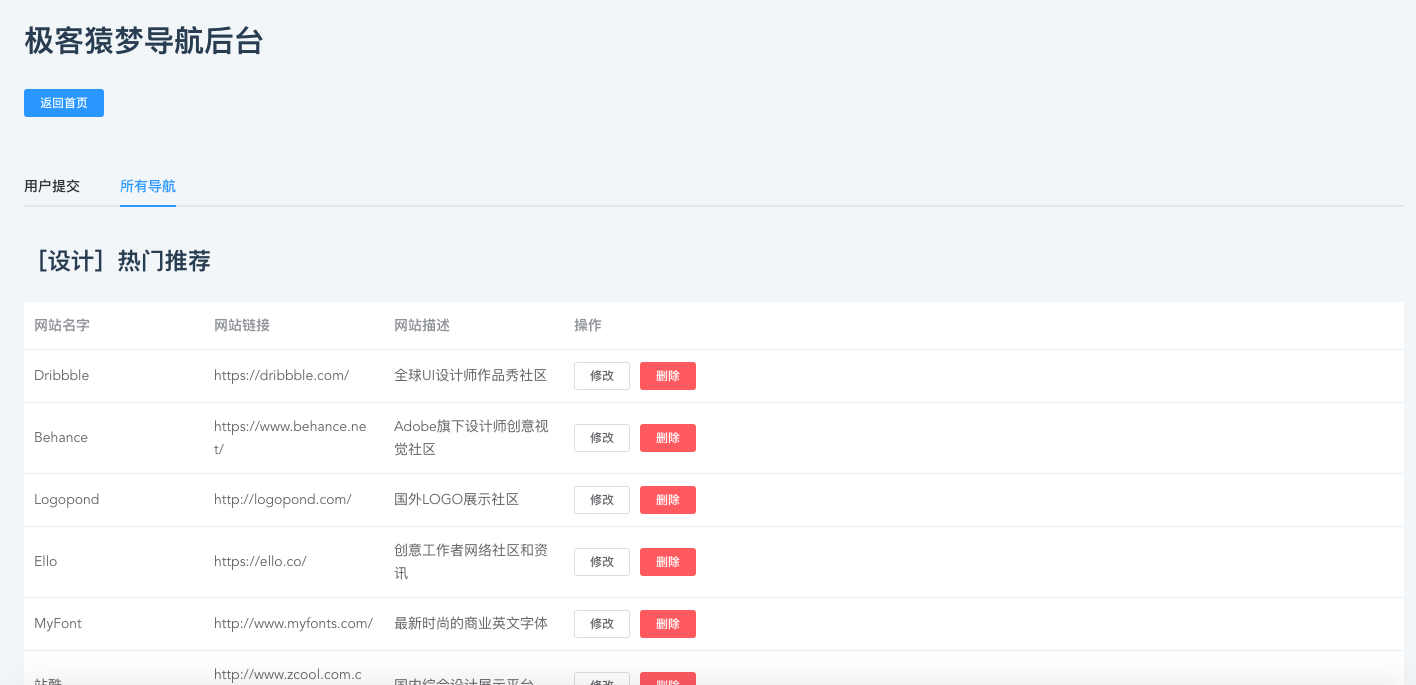
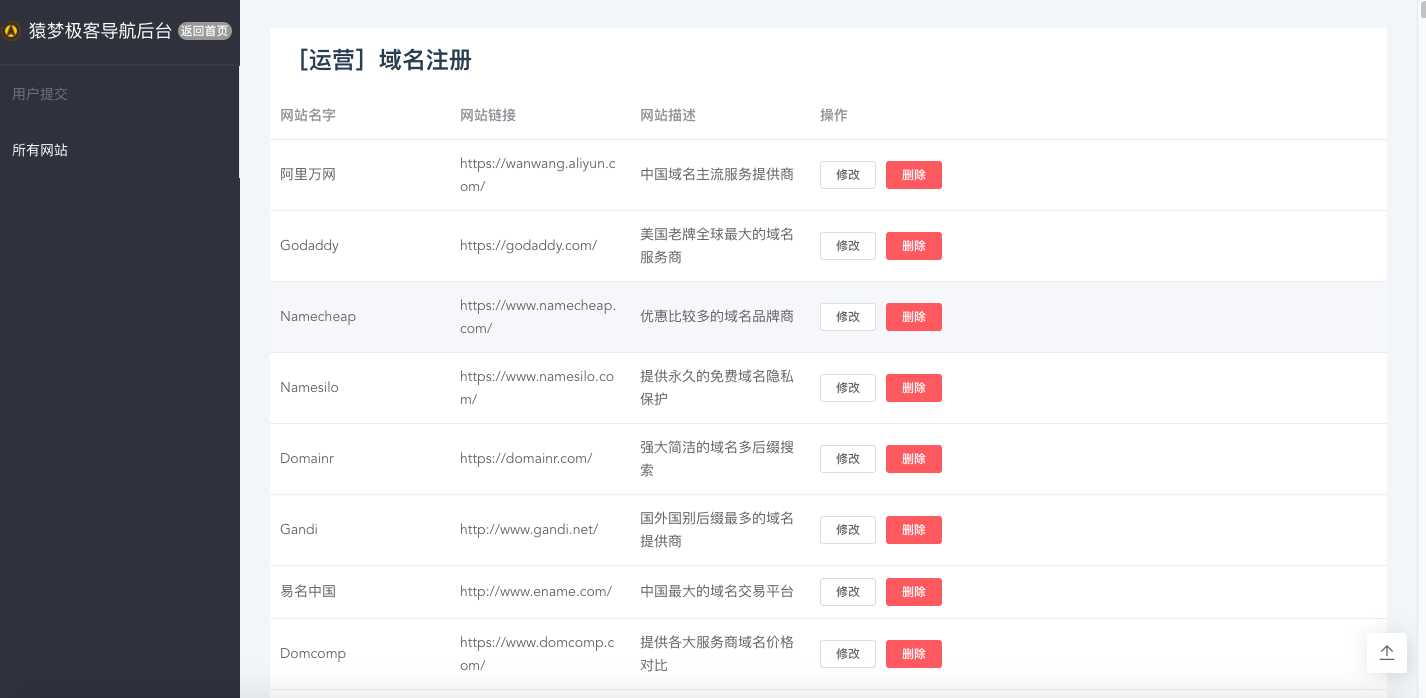
docs:最新截图

diff --git a/src/pages/Admin.vue b/src/pages/Admin.vue
@@ -1,62 +1,92 @@
 <template>
-  <section class="admin">
-    <header class="admin-header">
-      <h2>极客猿梦导航后台</h2>
-      <el-button type="primary" size="mini" class="go-home"　@click="$router.push('/')">返回首页</el-button>
-    </header>
-    <el-tabs v-model="activeName">
-      <el-tab-pane label="用户提交" name="one">
-        <el-table :data="tableData">
-          <el-table-column label="提交日期" width="180">
-            <template slot-scope="scope">
-              <i class="el-icon-time"></i>
-              <span style="margin-left: 10px">{{ formatTime(scope.row.time) }}</span>
-            </template>
-          </el-table-column>
-          <el-table-column label="网站名称" width="180" prop="name"></el-table-column>
-          <el-table-column label="网站分类" width="180" prop="classify"></el-table-column>
-          <el-table-column label="网站链接" width="180" prop="href"></el-table-column>
-          <el-table-column label="网站描述" width="180" prop="desc"></el-table-column>
-          <el-table-column label="操作">
-            <template slot-scope="scope">
-              <el-button size="mini" @click="openDialog(0, scope.row._id, scope.$index)">通过</el-button>
-              <el-button
-                size="mini"
-                type="danger"
-                @click="openDialog(1, scope.row._id, scope.$index)"
-              >拒绝</el-button>
-            </template>
-          </el-table-column>
-        </el-table>
-      </el-tab-pane>
-      <el-tab-pane label="所有导航" name="two">
-        <section v-for="(item,index) in tableNavData" :key="item._id">
-          <h3>{{item.classify}}</h3>
-          <el-table :data="item.sites">
-            <el-table-column label="网站名字" width="180" prop="name"></el-table-column>
+  <section class="admin container">
+    <div class="left-bar">
+      <div class="title">
+        <img class="icon-logo" src="/favicon.ico">
+        <span>猿梦极客导航后台</span>
+        <el-button @click="$router.go(-1)" class="go-back-home" type="primary">返回首页</el-button>
+      </div>
+      <el-row>
+        <el-col :span="24">
+          <el-menu
+            :default-active="active"
+            class="el-menu-vertical-demo"
+            background-color="#30333c"
+            text-color="#6b7386"
+            active-text-color="#fff"
+          >
+            <el-menu-item :index="0" @click="active=0">
+              <span slot="title">用户提交</span>
+            </el-menu-item>
+            <el-menu-item :index="1" @click="active=1">
+              <span slot="title">所有网站</span>
+            </el-menu-item>
+          </el-menu>
+        </el-col>
+      </el-row>
+    </div>
+    <section class="main">
+      <div id="mainContent">
+        <div class="user-commit-web" v-show="active==0">
+          <el-table :data="tableData">
+            <el-table-column label="提交日期" width="180">
+              <template slot-scope="scope">
+                <i class="el-icon-time"></i>
+                <span style="margin-left: 10px">{{ formatTime(scope.row.time) }}</span>
+              </template>
+            </el-table-column>
+            <el-table-column label="网站名称" width="180" prop="name"></el-table-column>
+            <el-table-column label="网站分类" width="180" prop="classify"></el-table-column>
             <el-table-column label="网站链接" width="180" prop="href"></el-table-column>
-            <el-table-column label="网站描述" width="180" prop="desc"></el-table-column>Î
+            <el-table-column label="网站描述" width="180" prop="desc"></el-table-column>
             <el-table-column label="操作">
               <template slot-scope="scope">
-                <el-button size="mini" @click="handleEdit(scope.$index, scope.row)">修改</el-button>
+                <el-button size="mini" @click="openDialog(0, scope.row._id, scope.$index)">通过</el-button>
                 <el-button
                   size="mini"
                   type="danger"
-                  @click="handleDelete(scope.$index, item._id, scope.row, index)"
-                >删除</el-button>
+                  @click="openDialog(1, scope.row._id, scope.$index)"
+                >拒绝</el-button>
               </template>
             </el-table-column>
           </el-table>
-        </section>
-      </el-tab-pane>
-    </el-tabs>
+        </div>
+        <div class="all-web" v-show="active==1">
+          <section class="mb-15" v-for="(item,index) in tableNavData" :key="item._id">
+            <h3>{{item.classify}}</h3>
+            <el-table :data="item.sites">
+              <el-table-column label="网站名字" width="180" prop="name"></el-table-column>
+              <el-table-column label="网站链接" width="180" prop="href"></el-table-column>
+              <el-table-column label="网站描述" width="180" prop="desc"></el-table-column>Î
+              <el-table-column label="操作">
+                <template slot-scope="scope">
+                  <el-button size="mini" @click="handleEdit(scope.$index, scope.row)">修改</el-button>
+                  <el-button
+                    size="mini"
+                    type="danger"
+                    @click="handleDelete(scope.$index, item._id, scope.row, index)"
+                  >删除</el-button>
+                </template>
+              </el-table-column>
+            </el-table>
+          </section>
+        </div>
+      </div>
+    </section>
+    <BackTop />
   </section>
 </template>
 
 <script>
+import BackTop from "@/components/BackTop";
+
 export default {
+  components: {
+    BackTop
+  },
   data() {
     return {
+      active: 0,
       tableData: [],
       tableNavData: [],
       tableData1: [
@@ -142,6 +172,9 @@ export default {
           .catch(_ => {});
       }
     },
+    handleEdit () {
+      this.$message("功能等待添加中...");
+    },
     // 拒绝－直接删除提交
     async delAuditNav(id) {
       const res = await this.$api.delAuditNav({ id: id });
@@ -157,11 +190,10 @@ export default {
     },
     // 监听删除导航
     async handleDelete(index, id, item, tableNavDataIndex) {
-      const name = item.name
-      this.tableNavData[tableNavDataIndex].sites.splice(index, 1)
+      const name = item.name;
+      this.tableNavData[tableNavDataIndex].sites.splice(index, 1);
       this.$message("删除成功");
-      const data = await this.$api.delNav(id, name)
-      
+      const data = await this.$api.delNav(id, name);
     },
     formatTime(time) {
       return (
@@ -178,15 +210,35 @@ export default {
 </script>
 
 <style lang="scss" scoped>
-.admin {
-  margin: 30px;
-
-  &-header {
-    margin-bottom: 50px;
-  }
-}
 .el-table {
   width: auto;
+}
+.main {
+  padding: 30px;
+}
+h3 {
+  margin: 0;
+  padding: 15px;
+  background: #fff;
+}
+.container .left-bar{
+  overflow: hidden;
+}
+.mb-15 {
+  margin-bottom: 15px;
+}
+.go-back-home {
+    font-size: 11px;
+    padding: 0;
+    background: #999;
+    border: 0;
+    border-radius: 30px;
+    margin-left: 5px;
+    padding: 3px;
+    &:active,
+    &:hover {
+      background: #999;
+    }
 }
 
 </style>

diff --git a/src/pages/Index.vue b/src/pages/Index.vue
@@ -3,7 +3,7 @@
   <section class="index container">
     <div class="left-bar" :style="{left: isLeftbar ? 0 : '-249px'}">
       <div class="title">
-        <img class="logo" src="/favicon.ico">
+        <img class="icon-logo" src="/favicon.ico">
         <span>猿梦极客导航</span>
       </div>
       <el-row>
@@ -176,9 +176,4 @@ export default {
   min-width: 320px;
 }
 
-.logo {
-  width: 20px;
-  height: 20px;
-  margin-right: 8px;
-}
 </style>

diff --git a/src/assets/styles/_common.scss b/src/assets/styles/_common.scss
@@ -1,3 +1,8 @@
+.icon-logo {
+  width: 20px;
+  height: 20px;
+  margin-right: 8px;
+}
 .container {
   .left-bar {
     position: fixed;
